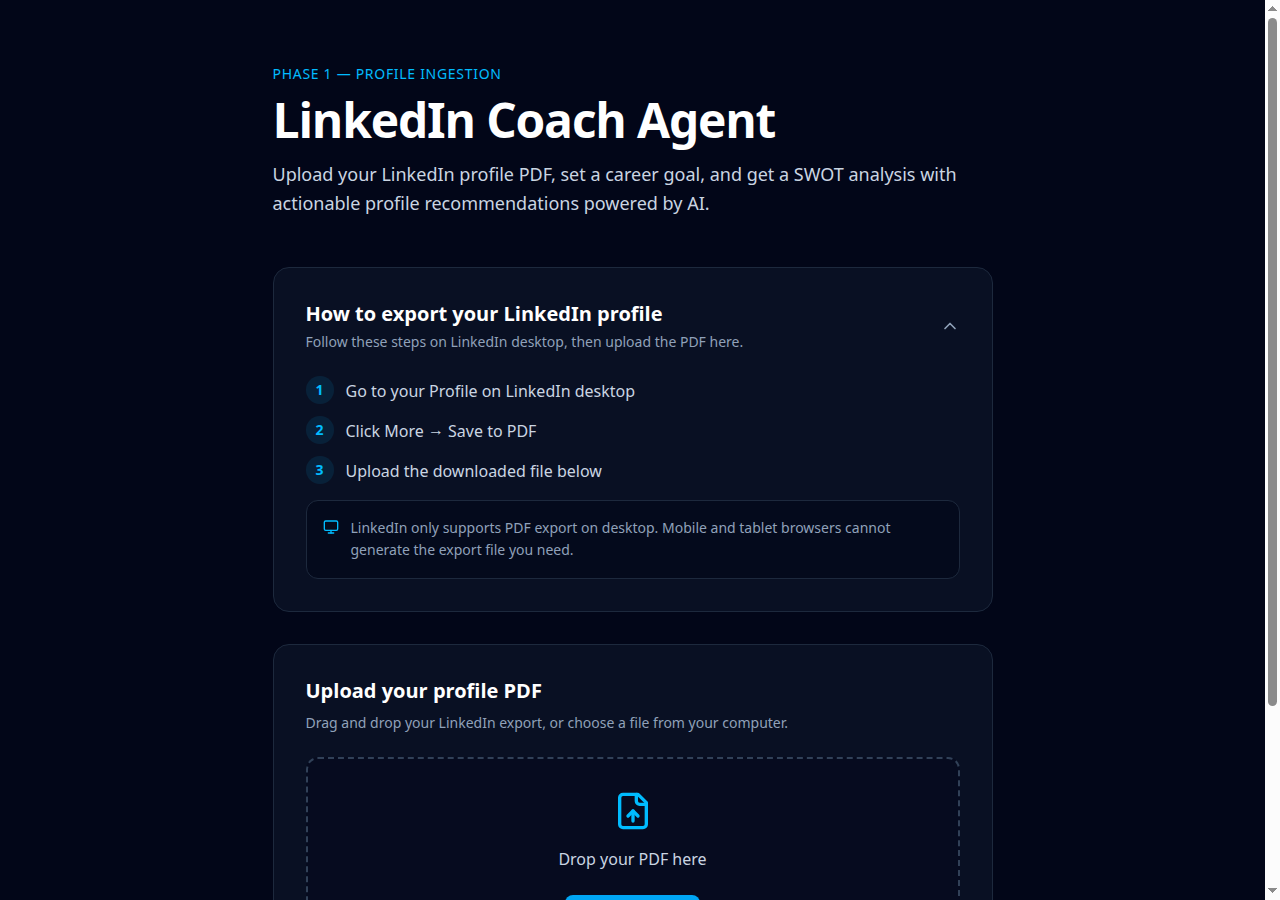
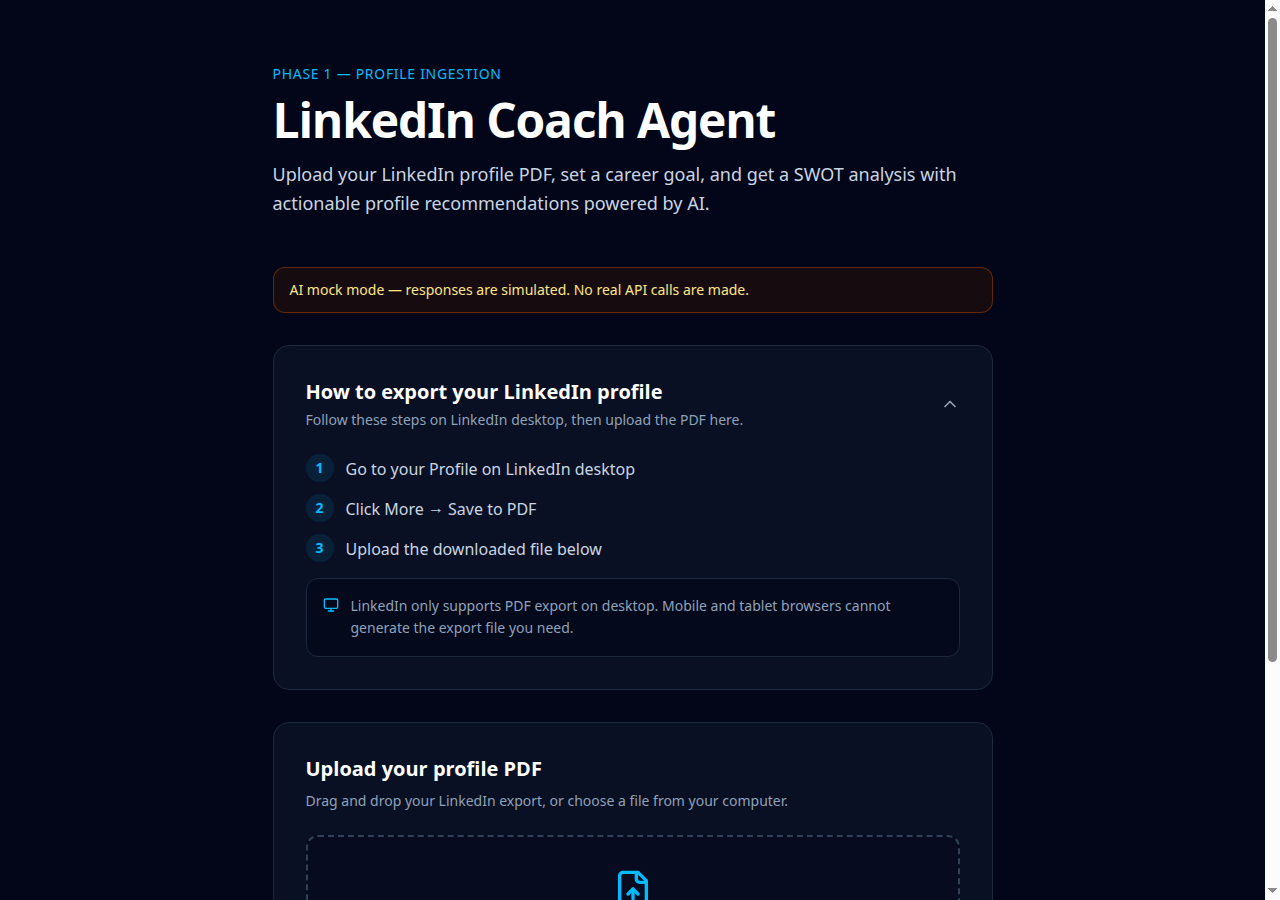
feat: add AI mock mode for local UI and flow testing
Introduce server-side AI mock provider controlled by AI_MOCK_MODE so the
full upload → parse → review workflow works without AI_GATEWAY_API_KEY.

- Add resolve-ai-mode with production safety guard
- Extract live parse logic into src/lib/ai/parse-profile.ts
- Add mock provider with configurable delay and PDF text heuristics
- Refactor /api/parse to dispatch by AI mode
- Show dev banner on home page when mock mode is active
- Update E2E script and add dev:mock / test:phase1:mock scripts
- Document mock setup in .env.example and README

diff --git a/src/routes/api/parse.ts b/src/routes/api/parse.ts
@@ -1,13 +1,13 @@
 import { createFileRoute } from "@tanstack/react-router";
-import { gateway, generateObject } from "ai";
 import { and, eq } from "drizzle-orm";
 import { z } from "zod";
 
 import { db } from "#/db";
 import { profileSnapshots } from "#/db/schema";
-import { env } from "#/env";
+import { mockParseProfileFromText } from "#/lib/ai/mock-parse-profile";
+import { parseProfileFromText } from "#/lib/ai/parse-profile";
+import { resolveAiMode } from "#/lib/ai/resolve-ai-mode";
 import { jsonError, jsonOk } from "#/lib/api-error";
-import { profileSchema } from "#/lib/profile-schema";
 import { getRequiredSessionId } from "#/server/session-utils";
 
 const parseRequestSchema = z.object({
@@ -20,8 +20,9 @@ export const Route = createFileRoute("/api/parse")({
 			POST: async ({ request }) => {
 				try {
 					const sessionId = getRequiredSessionId();
+					const aiMode = resolveAiMode();
 
-					if (!env.AI_GATEWAY_API_KEY) {
+					if (aiMode === "unavailable") {
 						return jsonError(
 							"AI parsing is unavailable: set AI_GATEWAY_API_KEY in your environment to enable profile parsing.",
 							503,
@@ -64,29 +65,10 @@ export const Route = createFileRoute("/api/parse")({
 						);
 					}
 
-					const { object: profile } = await generateObject({
-						model: gateway("anthropic/claude-sonnet-4.5"),
-						schema: profileSchema,
-						prompt: `You are parsing a LinkedIn profile exported as PDF text into structured JSON.
-
-Extract and normalize the following fields:
-- name: full name
-- headline: professional headline
-- location: geographic location (optional)
-- about: the About/Summary section
-- experiences: work history with title, company, location, startDate, endDate (use "Present" for current roles), and description
-- education: schools with degree, field, and dates
-- skills: list of skill names
-- certifications: optional list with name, issuer, and date
-
-Rules:
-- Preserve factual content; do not invent information not present in the text
-- Use empty arrays when a section has no entries
-- Dates should match the source text format when possible
-
-LinkedIn PDF text:
-${snapshot.rawPdfText}`,
-					});
+					const profile =
+						aiMode === "mock"
+							? await mockParseProfileFromText(snapshot.rawPdfText)
+							: await parseProfileFromText(snapshot.rawPdfText);
 
 					const now = new Date();
 

diff --git a/src/lib/ai/mock-parse-profile.ts b/src/lib/ai/mock-parse-profile.ts
@@ -1,0 +1,81 @@
+import { env } from "#/env";
+import { sampleProfile } from "#/lib/ai/fixtures/sample-profile";
+import type { Profile } from "#/lib/profile-schema";
+
+function delay(ms: number): Promise<void> {
+	return new Promise((resolve) => {
+		setTimeout(resolve, ms);
+	});
+}
+
+function normalizePdfText(text: string): string {
+	return text.replace(/\s+/g, " ").trim();
+}
+
+function extractName(text: string): string | undefined {
+	for (const line of text.split("\n")) {
+		const trimmed = line.trim();
+		if (trimmed.length > 0 && trimmed.length <= 80) {
+			return trimmed;
+		}
+	}
+
+	const normalized = normalizePdfText(text);
+	const nameMatch = normalized.match(/^([A-Z][a-z]+\s+[A-Z][a-z]+)\b/);
+	return nameMatch?.[1];
+}
+
+function extractHeadline(text: string): string | undefined {
+	for (const line of text.split("\n")) {
+		const trimmed = line.trim();
+		if (trimmed.includes(" at ") && trimmed.length <= 120) {
+			return trimmed;
+		}
+	}
+
+	const normalized = normalizePdfText(text);
+	const headlineMatch = normalized.match(
+		/\b([A-Za-z][A-Za-z\s/-]{2,40} at [A-Za-z0-9][A-Za-z0-9\s&.,'-]{1,40})\b/,
+	);
+	return headlineMatch?.[1];
+}
+
+function extractAboutSection(text: string): string | undefined {
+	const multilineMatch = text.match(
+		/About\s*\n([\s\S]*?)(?:\n\n|\nExperience|\nEducation|\nSkills|$)/i,
+	);
+	if (multilineMatch?.[1]) {
+		const about = multilineMatch[1].replace(/\s+/g, " ").trim();
+		return about.length > 0 ? about.slice(0, 500) : undefined;
+	}
+
+	const inlineMatch = normalizePdfText(text).match(
+		/\bAbout\b\s+(.+?)(?:\s+Experience\b|\s+Education\b|\s+Skills\b|$)/i,
+	);
+	if (inlineMatch?.[1]) {
+		const about = inlineMatch[1].trim();
+		return about.length > 0 ? about.slice(0, 500) : undefined;
+	}
+
+	return undefined;
+}
+
+function buildMockProfile(rawPdfText: string): Profile {
+	const name = extractName(rawPdfText) ?? sampleProfile.name;
+	const headline = extractHeadline(rawPdfText) ?? sampleProfile.headline;
+	const about = extractAboutSection(rawPdfText) ?? sampleProfile.about;
+
+	return {
+		...sampleProfile,
+		name,
+		headline,
+		about,
+	};
+}
+
+export async function mockParseProfileFromText(
+	rawPdfText: string,
+): Promise<Profile> {
+	await delay(env.AI_MOCK_DELAY_MS);
+	return buildMockProfile(rawPdfText);
+}

diff --git a/src/lib/ai/parse-profile.ts b/src/lib/ai/parse-profile.ts
@@ -1,0 +1,36 @@
+import { gateway, generateObject } from "ai";
+
+import type { Profile } from "#/lib/profile-schema";
+import { profileSchema } from "#/lib/profile-schema";
+
+const PARSE_PROMPT_PREFIX = `You are parsing a LinkedIn profile exported as PDF text into structured JSON.
+
+Extract and normalize the following fields:
+- name: full name
+- headline: professional headline
+- location: geographic location (optional)
+- about: the About/Summary section
+- experiences: work history with title, company, location, startDate, endDate (use "Present" for current roles), and description
+- education: schools with degree, field, and dates
+- skills: list of skill names
+- certifications: optional list with name, issuer, and date
+
+Rules:
+- Preserve factual content; do not invent information not present in the text
+- Use empty arrays when a section has no entries
+- Dates should match the source text format when possible
+
+LinkedIn PDF text:
+`;
+
+export async function parseProfileFromText(
+	rawPdfText: string,
+): Promise<Profile> {
+	const { object: profile } = await generateObject({
+		model: gateway("anthropic/claude-sonnet-4.5"),
+		schema: profileSchema,
+		prompt: `${PARSE_PROMPT_PREFIX}${rawPdfText}`,
+	});
+
+	return profile;
+}

diff --git a/src/routes/index.tsx b/src/routes/index.tsx
@@ -1,13 +1,18 @@
 import { createFileRoute, useNavigate } from "@tanstack/react-router";
 import { LinkedInExportGuide } from "#/components/LinkedInExportGuide";
 import { PdfUploadDropzone } from "#/components/PdfUploadDropzone";
+import { getAiModeForClient } from "#/lib/ai/resolve-ai-mode";
 
 export const Route = createFileRoute("/")({
+	loader: () => ({
+		aiMode: getAiModeForClient(),
+	}),
 	component: Home,
 });
 
 function Home() {
 	const navigate = useNavigate();
+	const { aiMode } = Route.useLoaderData();
 
 	return (
 		<div className="mx-auto flex min-h-screen max-w-3xl flex-col px-6 py-16">
@@ -23,6 +28,12 @@ function Home() {
 					analysis with actionable profile recommendations powered by AI.
 				</p>
 			</header>
+
+			{aiMode === "mock" ? (
+				<div className="mb-8 rounded-xl border border-amber-800/60 bg-amber-950/30 px-4 py-3 text-sm text-amber-200">
+					AI mock mode — responses are simulated. No real API calls are made.
+				</div>
+			) : null}
 
 			<div className="space-y-8">
 				<LinkedInExportGuide />

diff --git a/src/env.ts b/src/env.ts
@@ -5,6 +5,11 @@ export const env = createEnv({
 	server: {
 		DATABASE_URL: z.string().default("./data/app.db"),
 		AI_GATEWAY_API_KEY: z.string().optional(),
+		AI_MOCK_MODE: z
+			.enum(["true", "false"])
+			.default("false")
+			.transform((value) => value === "true"),
+		AI_MOCK_DELAY_MS: z.coerce.number().default(1500),
 		MAX_PDF_SIZE_MB: z.coerce.number().default(5),
 		SESSION_COOKIE_NAME: z.string().default("linkedin_coach_session"),
 		SERVER_URL: z.string().url().optional(),
@@ -19,6 +24,8 @@ export const env = createEnv({
 	runtimeEnv: {
 		DATABASE_URL: process.env.DATABASE_URL,
 		AI_GATEWAY_API_KEY: process.env.AI_GATEWAY_API_KEY,
+		AI_MOCK_MODE: process.env.AI_MOCK_MODE,
+		AI_MOCK_DELAY_MS: process.env.AI_MOCK_DELAY_MS,
 		MAX_PDF_SIZE_MB: process.env.MAX_PDF_SIZE_MB,
 		SESSION_COOKIE_NAME: process.env.SESSION_COOKIE_NAME,
 		SERVER_URL: process.env.SERVER_URL,

diff --git a/src/lib/ai/fixtures/sample-profile.ts b/src/lib/ai/fixtures/sample-profile.ts
@@ -1,0 +1,31 @@
+import type { Profile } from "#/lib/profile-schema";
+
+export const sampleProfile: Profile = {
+	name: "Jane Smith",
+	headline: "Product Manager at TechCo",
+	location: "London, UK",
+	about: "Product leader with 8 years experience in B2B SaaS.",
+	experiences: [
+		{
+			title: "Product Manager",
+			company: "TechCo",
+			location: "London",
+			startDate: "Jan 2019",
+			endDate: "Present",
+			description: "Leading B2B SaaS roadmap.",
+		},
+	],
+	education: [
+		{
+			school: "University of London",
+			degree: "MBA",
+			field: "Business",
+			startDate: "2015",
+			endDate: "2017",
+		},
+	],
+	skills: ["Product Strategy", "Agile", "SQL"],
+	certifications: [
+		{ name: "Certified Scrum Product Owner", issuer: "Scrum Alliance" },
+	],
+};

diff --git a/src/lib/ai/resolve-ai-mode.ts b/src/lib/ai/resolve-ai-mode.ts
@@ -1,0 +1,23 @@
+import { env } from "#/env";
+
+export type AiMode = "mock" | "live" | "unavailable";
+
+export function resolveAiMode(): AiMode {
+	if (env.AI_MOCK_MODE) {
+		if (process.env.NODE_ENV === "production") {
+			return "unavailable";
+		}
+
+		return "mock";
+	}
+
+	if (env.AI_GATEWAY_API_KEY) {
+		return "live";
+	}
+
+	return "unavailable";
+}
+
+export function getAiModeForClient(): AiMode {
+	return resolveAiMode();
+}

diff --git a/docs/PHASE1-TEST-PROOF.md b/docs/PHASE1-TEST-PROOF.md
@@ -1,20 +1,19 @@
 # Phase 1 E2E Test Proof
 
-**Run at:** 2026-06-29T18:30:30.501Z  
+**Run at:** 2026-06-29T18:46:23.097Z  
 **Base URL:** http://localhost:3000  
-**Result:** 11/11 passed  
-**Snapshot ID:** 81f09d74-df0f-4512-9ae2-dd1f8996f473
+**Result:** 10/10 passed  
+**Snapshot ID:** 21db5ab3-00dc-4e98-8bb7-9e91ed4b5350
 
 ## Summary
 
 | Test | Result | Detail |
 |------|--------|--------|
 | Home page loads (200) | ✅ PASS | status=200, has Phase 1 copy=true |
-| Anonymous session cookie issued | ✅ PASS | linkedin_coach_session=437e9b57-9e0f-404d-a13b-c79f67f47974 |
+| Anonymous session cookie issued | ✅ PASS | linkedin_coach_session=bbaaf02c-fb65-4cc2-a97a-3b972c93819b |
 | Upload rejects non-PDF (400) | ✅ PASS | {"error":"Only application/pdf files are accepted"} |
-| Upload accepts valid PDF (200) | ✅ PASS | {"snapshotId":"81f09d74-df0f-4512-9ae2-dd1f8996f473","totalPages":1,"textLength":567} |
-| Parse returns 503 without AI_GATEWAY_API_KEY | ✅ PASS | {"error":"AI parsing is unavailable: set AI_GATEWAY_API_KEY in your environment to enable profile parsing."} |
-| Profile save works (PUT 200) — seeded for review test | ✅ PASS | {"status":200,"name":"Jane Smith"} |
+| Upload accepts valid PDF (200) | ✅ PASS | {"snapshotId":"21db5ab3-00dc-4e98-8bb7-9e91ed4b5350","totalPages":1,"textLength":567} |
+| Parse returns structured profile (200) — mock | ✅ PASS | status=200, name=Jane Smith, experiences=1 |
 | Profile GET returns saved data (200) | ✅ PASS | {"status":200,"name":"Jane Smith","experienceCount":1} |
 | Profile PUT updates headline (200) | ✅ PASS | {"status":200,"headline":"Senior Product Manager at TechCo"} |
 | Profile review page loads (200) | ✅ PASS | status=200, has review heading=true |
@@ -23,20 +22,14 @@
 
 ## Screenshots
 
-![Home page — Phase 1 upload UI](01-home-upload.png)
-
-Captured via headless Chrome in cloud agent. Shows LinkedIn export guide + PDF dropzone.
-
-## Re-run tests
-
-```bash
-pnpm dev          # in one terminal
-pnpm test:phase1  # in another — expects http://localhost:3000
-```
+- `artifacts/01-home-upload.png` — Home page with upload UI
+- `artifacts/02-profile-review.png` — Profile review page for snapshot `21db5ab3-00dc-4e98-8bb7-9e91ed4b5350`
 
 ## Environment
 
-- `AI_GATEWAY_API_KEY`: not set (parse 503 expected; profile flow seeded via PUT)
+- `AI_MOCK_MODE`: true (mock parse tested)
+- `AI_MOCK_DELAY_MS`: 0
+- `AI_GATEWAY_API_KEY`: not set
 - Node: v22.14.0
 
 ## Raw JSON

diff --git a/README.md b/README.md
@@ -11,12 +11,29 @@ An AI career coach that analyzes your LinkedIn profile (via PDF export) against 
 
 ```bash
 pnpm install
-cp .env.example .env.local   # add AI_GATEWAY_API_KEY for profile parsing (Phase 1+)
+cp .env.example .env.local
 pnpm db:push                 # create SQLite tables
 pnpm dev
 ```
 
 Open [http://localhost:3000](http://localhost:3000).
+
+### Local development without API key
+
+To test the full upload → parse → review flow without calling the real AI gateway, enable mock mode in `.env.local`:
+
+```bash
+AI_MOCK_MODE=true
+AI_MOCK_DELAY_MS=1500   # optional — simulates parsing latency for UI testing
+```
+
+Or use the convenience script:
+
+```bash
+pnpm dev:mock
+```
+
+Mock mode returns simulated profile data derived from your PDF text. It is disabled in production builds. For live parsing, set `AI_GATEWAY_API_KEY` instead (mock mode takes priority when both are set).
 
 ## Project Docs
 
@@ -40,7 +57,9 @@ See [`.env.example`](.env.example):
 | Variable | Required | Description |
 |----------|----------|-------------|
 | `DATABASE_URL` | No | SQLite path (default: `./data/app.db`) |
-| `AI_GATEWAY_API_KEY` | Phase 1+ | Vercel AI Gateway key (required for PDF → profile parsing) |
+| `AI_GATEWAY_API_KEY` | Live parsing | Vercel AI Gateway key for PDF → profile parsing |
+| `AI_MOCK_MODE` | No | Set to `true` to simulate AI responses without API calls (dev/test) |
+| `AI_MOCK_DELAY_MS` | No | Mock parsing delay in ms (default: 1500) |
 | `MAX_PDF_SIZE_MB` | No | PDF upload limit (default: 5) |
 | `SESSION_COOKIE_NAME` | No | Anonymous session cookie name |
 
@@ -48,11 +67,13 @@ See [`.env.example`](.env.example):
 
 ```bash
 pnpm dev          # Start dev server (port 3000)
+pnpm dev:mock     # Dev server with AI mock mode enabled
 pnpm build        # Production build
 pnpm db:push      # Push schema to SQLite
 pnpm db:generate  # Generate Drizzle migrations
 pnpm db:studio    # Open Drizzle Studio
 pnpm check        # Biome lint + format
+pnpm test:phase1:mock  # E2E proof with mock AI (requires dev server)
 ```
 
 ## LinkedIn PDF Export
